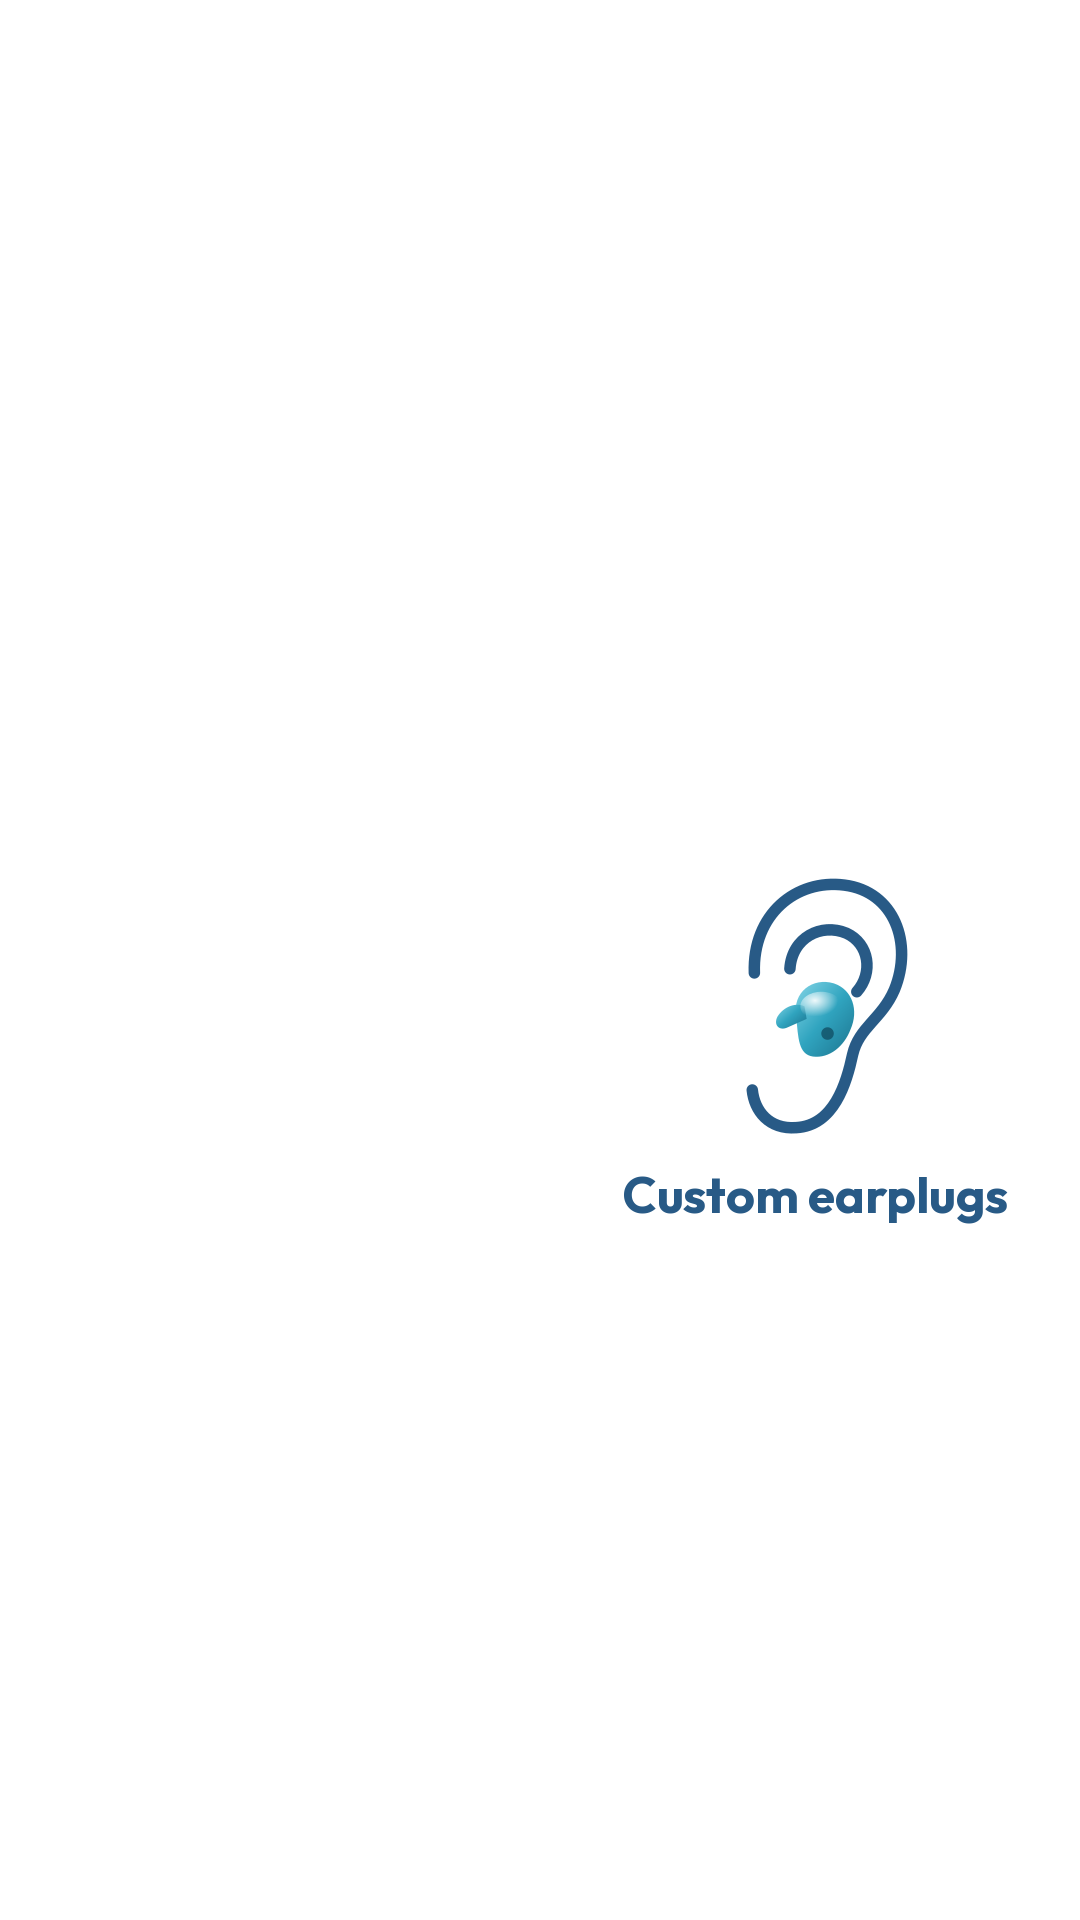
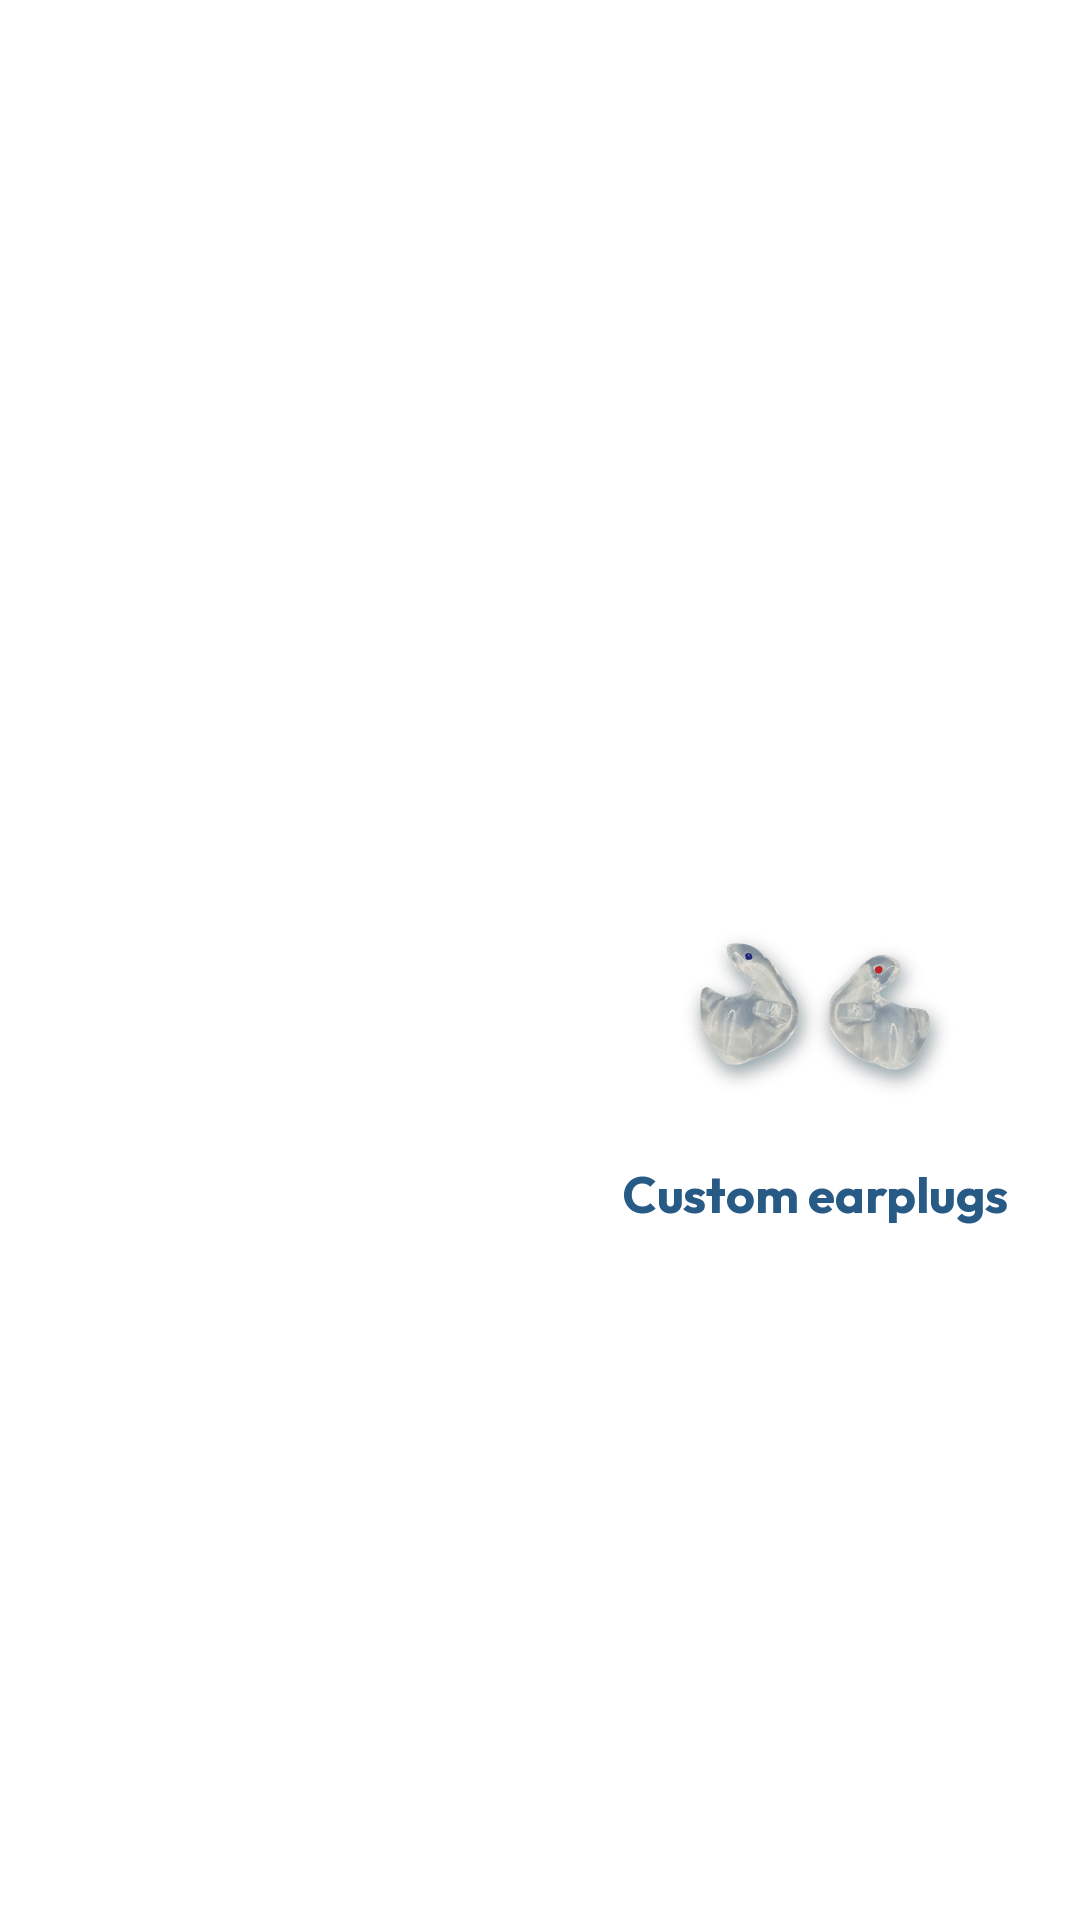
Audiology reel: earplug photo replaces drawn ear, screen B-roll after tympanometry removed; 2811/2818 swap ready
Claude-Session: https://claude.ai/code/session_018hBehPYnjXA2sKKqKnXdvW

Changed region(s): [[0.6417, 0.4375, 0.8861, 0.5938]]

diff --git a/edit_audiology/scripts/03_edit_plan.py b/edit_audiology/scripts/03_edit_plan.py
@@ -26,15 +26,17 @@ R(lv, at("لنقدم"), "logo", "brand/laservision/logo-transparent.png", "", "p
   "ding", "her silhouette masks the logo (MediaPipe matte)")
 
 # --- B-roll
-R(at("لنقدم"), at("عنا", at("بالسمع")) - 0.25, "broll", "RIB_0139", notes="audiometer, wide; from 2.0 s")
+import os as _os
+_b8 = "RIB_2811" if _os.path.exists(J("source", "RIB_2811.MP4")) else "RIB_0139"   # review: 2811 replaces 0139 at ~8 s
+R(at("لنقدم"), at("عنا", at("بالسمع")) - 0.25, "broll", _b8, notes="B-roll at ~8 s")
 import os as _os
 if _os.path.exists(J("source", "RIB_2836.MP4")):   # tympanometer footage replaces the B-roll from "tympanometry"
-    R(at("audiometry") - 0.05, at("tympanometry"), "broll", "RIB_0141", notes="audiometric headphones; from 4.0 s")
+    _ba = "RIB_2818" if _os.path.exists(J("source", "RIB_2818.MP4")) else "RIB_0141"   # review: 2818 on "audiometry"
+    R(at("audiometry") - 0.05, at("tympanometry"), "broll", _ba, notes="B-roll on 'audiometry'")
     R(at("tympanometry"), at("أجهزة"), "broll", "RIB_2836", notes="tympanometer, requested for 'tympanometry'; from 2.0 s")
 else:
     R(at("audiometry") - 0.05, at("باستخدام"), "broll", "RIB_0141", notes="audiometric headphones; from 4.0 s")
-R(at("أجهزة") if _os.path.exists(J("source", "RIB_2836.MP4")) else at("باستخدام"), at("سماعات") - 0.2,
-  "broll", "RIB_0140", notes="audiometer screen; from 3.0 s")
+# review: no screen B-roll after "tympanometry" (RIB_0140 removed); back to her until "سماعات"
 
 # --- animated overlays (+ matching SFX). Clean titles, no notification-style boxes.
 # rise = text rises in with an accent line drawing under it (soft whoosh); pop = scale-in with overshoot (pop)

diff --git a/edit_audiology/scripts/04_graphics.py b/edit_audiology/scripts/04_graphics.py
@@ -107,9 +107,18 @@ EARPLUG_SVG = """<svg xmlns="http://www.w3.org/2000/svg" viewBox="0 0 220 280">
 </svg>"""
 def render_svg(svg, w):
     return Image.open(io.BytesIO(cairosvg.svg2png(bytestring=svg.encode(), output_width=w))).convert("RGBA")
-ear = render_svg(EARPLUG_SVG, 230)
+ear = render_svg(EARPLUG_SVG, 230)             # kept only for its footprint: the photo takes the same box
+# review: the drawn ear is replaced by the real custom earplug photo (assets/earplugs_photo.png), same size/place
+photo = Image.open(J("assets", "earplugs_photo.png")).convert("RGBA")
+sc = min(ear.width / photo.width, ear.height / photo.height)
+photo = photo.resize((round(photo.width * sc), round(photo.height * sc)), Image.LANCZOS)
 img = Image.new("RGBA", (W, H)); X, Y = 700, 860
-img.alpha_composite(ear, (X, Y))
+px, py = X + (ear.width - photo.width) // 2, Y + (ear.height - photo.height) // 2
+sh = Image.new("RGBA", (W, H)); shape = Image.new("RGBA", photo.size, (0, 48, 63, 0))
+shape.putalpha(photo.getchannel("A").point(lambda v: int(v * 0.45)))
+sh.alpha_composite(shape, (px + 3, py + 8))
+img.alpha_composite(sh.filter(ImageFilter.GaussianBlur(9)))   # soft navy shadow: clear silicone reads on the white coat
+img.alpha_composite(photo, (px, py))
 f = font(50); t = "Custom earplugs"; tx = min(1010 - f.getlength(t), X + (ear.width - f.getlength(t)) / 2)
 d = ImageDraw.Draw(img); d.text((tx, Y + ear.height + 10), t, font=f, fill=CARD_BLUE)
 img = glow(img, radius=12, strength=1.6); bb = img.getbbox()

diff --git a/edit_audiology/scripts/08_assemble.py b/edit_audiology/scripts/08_assemble.py
@@ -90,7 +90,7 @@ def reader(path, start=0.0, fps=FPS):
         if len(buf) < W * H * 3: break
         yield np.frombuffer(buf, np.uint8).reshape(H, W, 3)
 
-BROLL_FROM = {"RIB_0139": 2.0, "RIB_0141": 4.0, "RIB_0140": 3.0, "RIB_2836": 2.0, "RIB_0135": 4.0}
+BROLL_FROM = {"RIB_0139": 2.0, "RIB_0141": 4.0, "RIB_0140": 3.0, "RIB_2836": 2.0, "RIB_0135": 4.0, "RIB_2811": 1.0, "RIB_2818": 1.0}
 broll_rows = [r for r in plan if r["layer"] == "broll"]
 broll_frames = {}
 def broll_frame(r, t):
